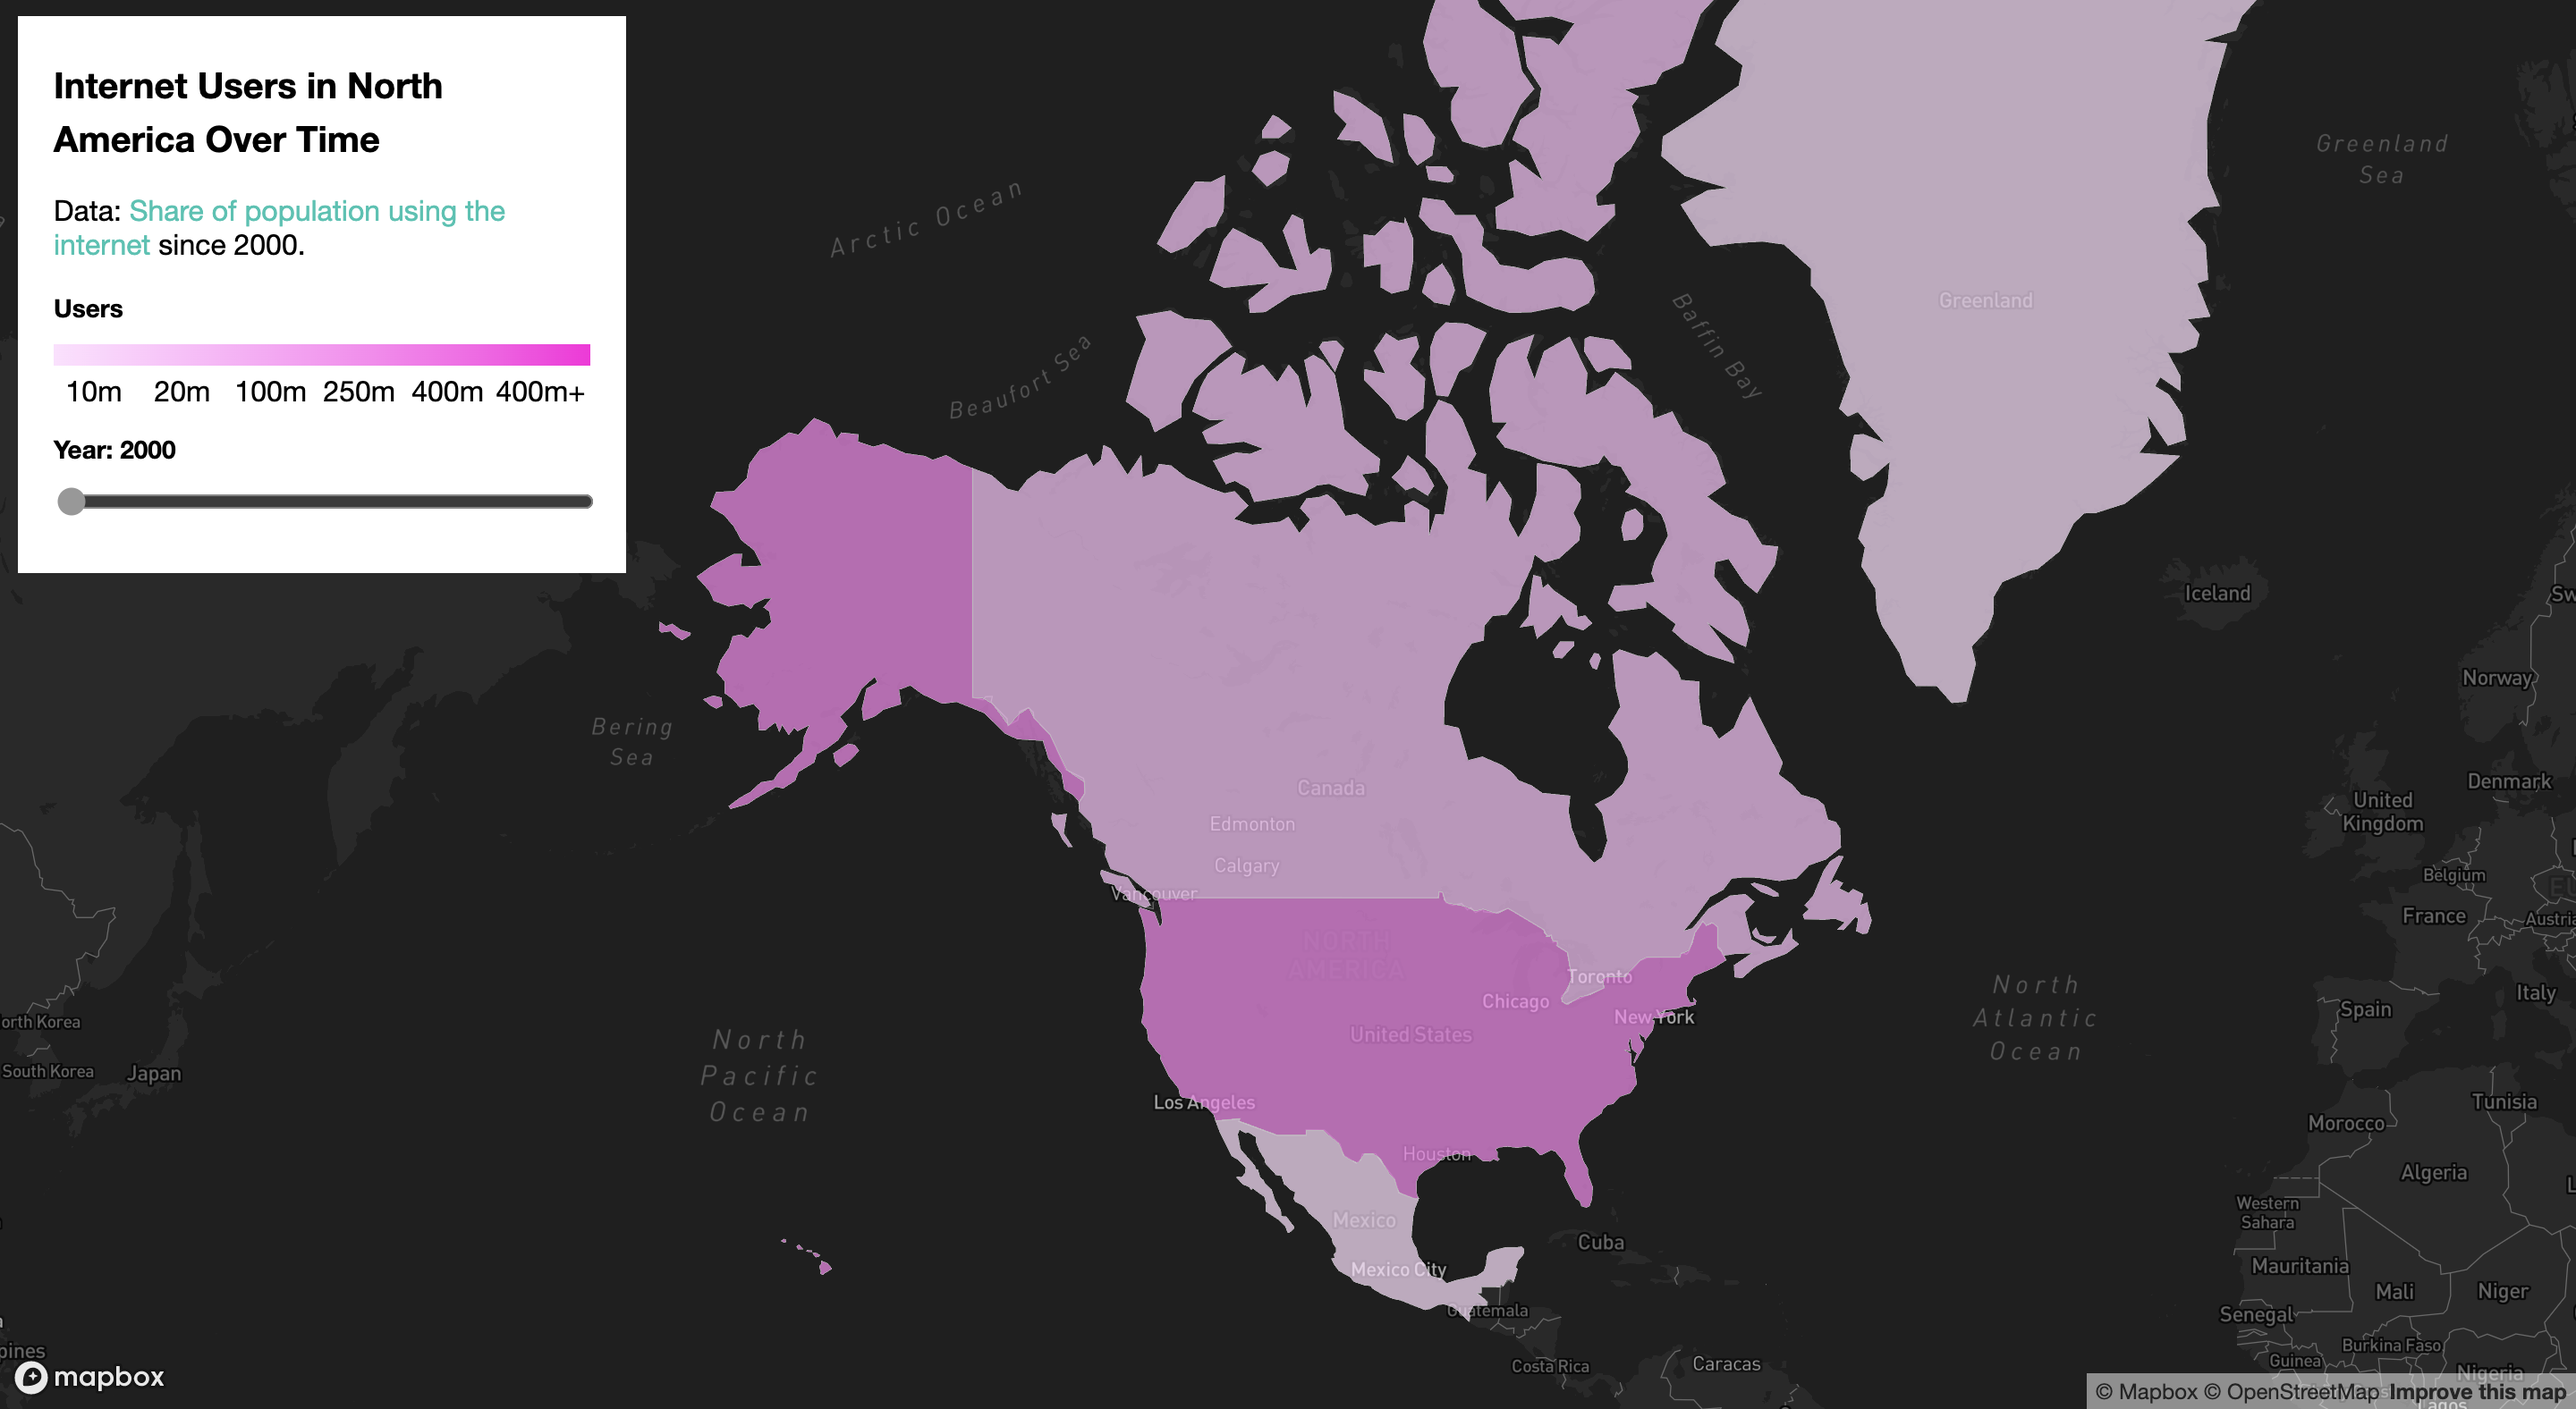
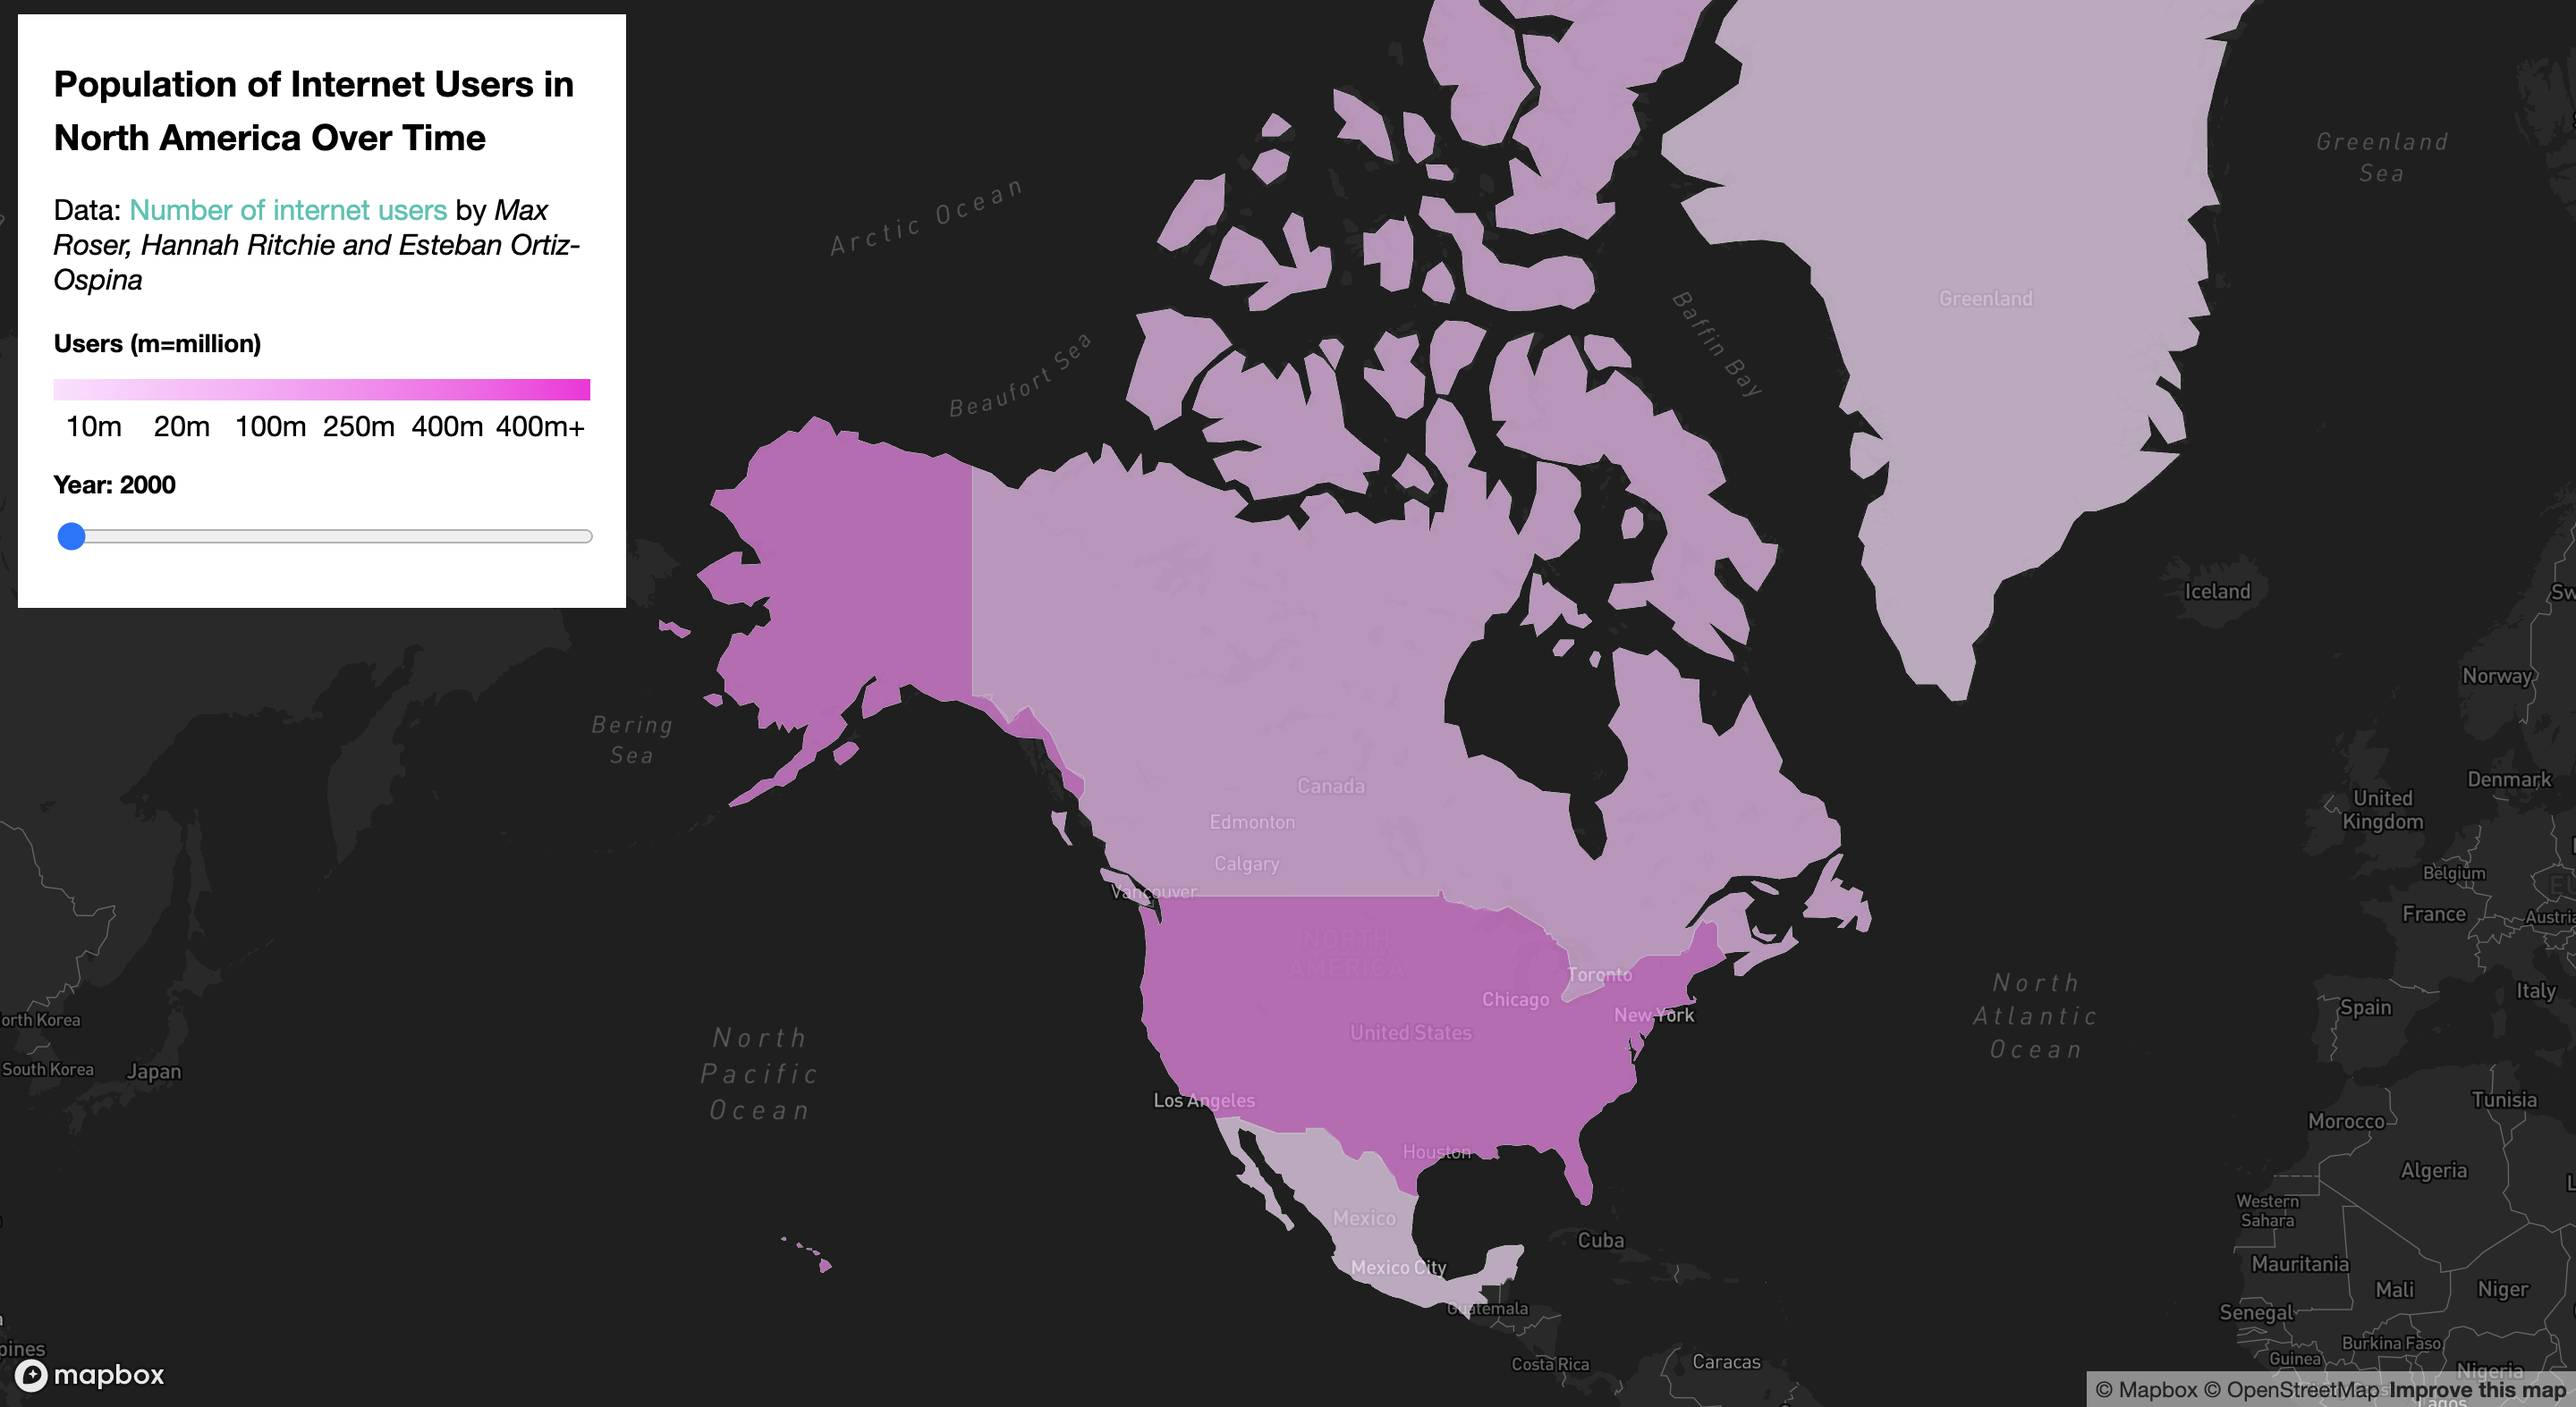
update the website link

Changed region(s): [[0.0, 0.0311, 0.25, 0.4358], [0.9062, 0.5604, 0.9375, 0.5915]]

diff --git a/index.html b/index.html
@@ -80,7 +80,7 @@
         <p>
             Data:
             <a href="https://ourworldindata.org/internet">Number of internet users</a>
-            by Max Roser, Hannah Ritchie and Esteban Ortiz-Ospina
+            by <i>Max Roser, Hannah Ritchie and Esteban Ortiz-Ospina</i>
         </p>
         <div class="session">
             <h2>Users (m=million)</h2>

diff --git a/README.md b/README.md
@@ -1,40 +1,41 @@
-# BA6 Final Project: Number of Internet Users in North America Over Time
+# BA6 Final Project: <br> Number of Internet Users in North America Over Time
 
-Project Description:
+### Project Description: <br>
 An interactive web application which shows a choropleth map of countries in North America, including Canada, USA, Mexico, and Greenland. The application features a time slider which allows the user to change the year between the ranges of 2000 and 2020, which updates the choropleth map to display the corresponding number of internet users in each country for the given year.
 <br>
 <br>
-Project Goal: The goal of this application was to illustrate how relatively recently the internet has integrated into society to become a standard of everyday life. Using the time slider, the user is able to see how the number of internet users in North America has grown exponentially across just two decades. The user is also able to see that the US has been one of the quickest countries to adopt the internet, and that this standard of internet access is not universal, and there are disparities of internet access between countries, even just within this continent. For example, when the user opens the web application, it is easy to notice that the US already has significantly more users than the other countries in North America, even in the early year of 2000. As the time slider increases the year for the map, the US is also seen to have a very high rate of increase, and still has the most internet users in North America today. This information therefore helps people living in industrialized countries to realize that society depends so heavily on internet access nowadays, however, the internet is still a relatively new invention, and many countries around the world are still lacking this tool that many of us take for granted.
+### Project Goal: <br>
+The goal of this application was to illustrate how relatively recently the internet has integrated into society to become a standard of everyday life. Using the time slider, the user is able to see how the number of internet users in North America has grown exponentially across just two decades. The user is also able to see that among countries in North America, the US has been one of the quickest countries to adopt the internet, and that this standard of internet access is not universal, and there are disparities of internet access between countries, even just within this continent. For example, when the user opens the web application, it is easy to notice that the US already has significantly more users than the other countries in North America, even in the early year of 2000. As the time slider increases the year for the map, the US is also seen to have a very high rate of increase, and still has the most internet users in North America today. This information therefore helps people living in industrialized countries to realize that society depends so heavily on internet access nowadays, however, the internet is still a relatively new invention, and many countries around the world are still lacking this tool that many of us take for granted.
 <br>
 <br>
-Project Process:
-We have met several difficulties when building the map of this project. The first was processing data. There are several datasets from the data source, we select the most suitable ones for our project and download them. However, these datasets are too large for our project. Thus we first fiter the part that we really need. After cleaning thousands lines of data, we got what we have in our repo now. All of these datasets were in csv format, but obviously, geojson is the format appropriate for this project. That is to say, we have to try converting the csv datasets we have to geojson datasets. We have tried many ways doing that and finally, considering the goal and content of this project, we chose to add the csv data to continent shapefile manually. That took us certain of time as the amount of csv data is twenty years in four countries. The second difficulty we met was filtering the map based on the year changing with user moving the slider. Even though we got mapbox template to reference, we are doing different types of map to the template, which means we need to think oursevles to code the changing filter. The third difficulty we met was how to define the appropriate legend. Because Greenland's data in some way exist as an outlier comparing to other countries, in order to balance the color of Greenland and the color of other three countries, we did make some efforts. The last difficulty was the custom style of base map, it's not hard making the custom map, but it was hard to use it publically. We didn't know that the mapbox need to be updated to latest version to use the custom map, which took us a while to figure out.
+### Project Process & Challenge: <br>
+We have met several difficulties when building the interactive map of the project. The first, also being the major one, was processing data. The data source that we found provided several interesting and useful datasets, but considering size of the dataset, workload, and project scale, we were not able to apply all of them. Thus we had to discuss to select the most suitable one from the data source for our project. After deciding the one dataset we were going to use, we started cleaning it. Becasue every country's number of year recorded was not the same, for example, whilte some were from 1960 to 2020, some were from 1990 to 2020, we decided to cut the number of year uniformly to 2000 to 2020, which was reasonable and relatable being the closest decades to the current year 2022. Another big problem of data processing was how to convert the original csv format to geojson format to both meet the project requirement and make the future coding work eaiser. This step took us much more time than we expected, as we were not just simply converting a csv file to a geojson file that has whatever look. Instead, we needed to make sure this geojson file could be used in our work easily and smoothly. <br>
+The second difficulty we met was how to define a new filter function and a new changing slider. Even though we got the mapbox template to refer, we were doing a different type of map and different unit to the template. As a result, a newly designed filter function based on the slider changing which year is showing is necessary. The third difficulty we met was how to define the appropriate color scale of the choropleth map. Because Greenland's population is significantly lower than other coutries, its data in some way existed as an outlier comparing to other countries. In order to balance the color of Greenland and the color of other three countries, we did make efforts. The last difficulty was applying our custom style of base map. Making the custom base map was not a difficult task itself, using the cutsom base map in the code was neither a hard task as we only needed to copy and paste the link that mapbox provided to us, but it was confusing how to acutally apply the custom base map on the web page. The situation was we did everything but the custom base map just didn't show up on our map. Luckily in the end, we figured out that the mapbox link at the top of html file needs to be updated to the latest version to use the custom map.
 <br>
 <br>
-Web Application link: https://raeoyw.github.io/BA6FinalProject/index.html
-
-Screenshots:
+### Web Application link: <br>
+https://raeoyw.github.io/BA6FinalProject/
+<br>
+<br>
+### Screenshots:
 <img width="1422" alt="image" src="img/2000users.png">
-
 <img width="1427" alt="image" src="img/2020users.png">
 <br>
 <br>
-Main functions:
-The user is able to zoom and pan around the map, due to the use of map box, and adjust the time slider to view the number of internet users in each country for the years between 2000 and 2020.
+### Main Functions: <br>
+The user is able to zoom and pan around the map due to the use of map box, and adjust the time slider to view the number of internet users in each country for the years between 2000 and 2020.
 <br>
 <br>
-data sources:
+### Data Sources: <br>
 Data for the number of internet users by country over time: https://ourworldindata.org/internet
 Data for Geojson geometry file: https://geojson-maps.ash.ms/
 <br>
 <br>
-Applied Libraries:
-<br>
+### Applied Libraries: <br>
 - Mapbox: A map server which offers a wide selection of interactive base maps that can be loaded into web applications using an access token for geographic visualizations.
 <br>
 <br>
-Applied Web Services
-<br>
+### Applied Web Services <br>
 - Github: Used for hosting our web application and uploading our files for collaboration
 <br>
 - Basemap: Used alongside Mapbox to create the basemaps seen in our web application
@@ -42,6 +43,5 @@ Applied Web Services
 - Geo Data Merger: Used for combining Geojson files with CSV data files to assign properties to objects (https://funkeinteraktiv.github.io/geo-data-merger/).
 <br>
 <br>
-
-Acklowledgements:
+### Acklowledgements: <br>
 We would like to acklowledge that this web application was created as a project for the University of Washington GEOG 495: Web GIS class instructed by professor Bo Zhao. The authors of this web application are Rae Ouyang, Omar Romero, and Ethan Liu.
